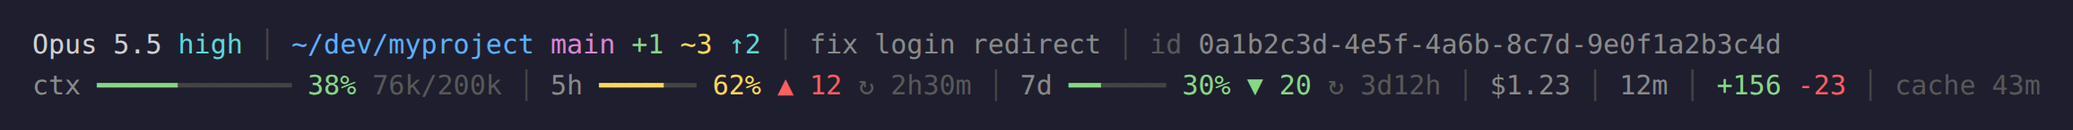
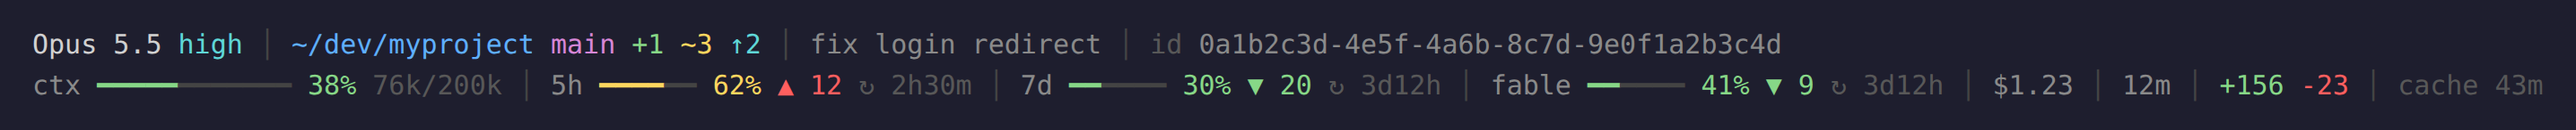
Per-model weekly limit meter (Fable), read from Claude Code's cached usage data
The status line input has only the 5-hour and 7-day windows. The per-model
weekly meter from the usage screen is in ~/.claude.json under
cachedUsageUtilization, so it is read from there: shown with its age once it
is over an hour old, dropped once its week has reset, and silent if the file
is missing or shaped differently. 26 tests.

Claude-Session: https://claude.ai/code/session_017nu2Js586jN43bPDDCy3Br

Changed region(s): [[0.0, 0.5753, 0.9965, 0.7397], [0.0, 0.2466, 0.872, 0.4658]]

diff --git a/tests/test_statusline.py b/tests/test_statusline.py
@@ -35,8 +35,8 @@ def plain(lines):
     return [sl.ANSI_RE.sub("", l) for l in lines]
 
 
-def build(data, cols=200):
-    return plain(sl.build(data, cols, now=NOW, git=lambda cwd: GIT))
+def build(data, cols=200, scoped=lambda now: []):
+    return plain(sl.build(data, cols, now=NOW, git=lambda cwd: GIT, scoped=scoped))
 
 
 def test_full_render_wide():
@@ -112,6 +112,7 @@ def test_formatters():
 def test_cli_end_to_end(tmp_path):
     script = os.path.join(SRC, "statusline.py")
     env = dict(os.environ, COLUMNS="60", HOME=str(tmp_path))  # its cache goes to a throwaway home
+    env.pop("CLAUDE_CONFIG_DIR", None)
     out = subprocess.run([sys.executable, script], input=json.dumps(FULL), capture_output=True, text=True, env=env)
     lines = out.stdout.splitlines()
     assert out.returncode == 0 and len(lines) == 2
@@ -132,3 +133,61 @@ def test_context_usage_is_not_saved_without_a_reading_or_with_an_unsafe_id(tmp_p
     sl.record_context({"session_id": SID}, folder=str(tmp_path))
     sl.record_context({"session_id": "../escape", "context_window": {"used_percentage": 5}}, folder=str(tmp_path))
     assert list(tmp_path.iterdir()) == []
+
+
+# --- per-model weekly limits, read from Claude Code's cached usage data ---------
+
+def usage_cache(tmp_path, limits, fetched=NOW - 60):
+    path = tmp_path / ".claude.json"
+    path.write_text(json.dumps({"cachedUsageUtilization": {"fetchedAtMs": fetched * 1000, "utilization": {"limits": limits}}}))
+    return str(path)
+
+
+def iso(epoch):
+    import datetime
+    return datetime.datetime.fromtimestamp(epoch, datetime.timezone.utc).isoformat()
+
+
+FABLE = {"kind": "weekly_scoped", "group": "weekly", "percent": 48, "resets_at": iso(NOW + 302400),
+         "scope": {"model": {"id": None, "display_name": "Fable"}, "surface": None}}
+WEEKLY_ALL = {"kind": "weekly_all", "group": "weekly", "percent": 49, "resets_at": iso(NOW + 302400), "scope": None}
+
+
+def test_scoped_limits_picks_only_the_per_model_weekly_meter(tmp_path):
+    found = sl.scoped_limits(NOW, usage_cache(tmp_path, [WEEKLY_ALL, FABLE, {"kind": "session", "percent": 6, "scope": None}]))
+    assert found == [{"label": "fable", "used_percentage": 48, "resets_at": NOW + 302400, "age": 60}]
+
+
+def test_a_reading_from_a_window_that_has_reset_is_dropped(tmp_path):
+    last_week = dict(FABLE, resets_at=iso(NOW - 10))
+    assert sl.scoped_limits(NOW, usage_cache(tmp_path, [last_week])) == []
+
+
+@pytest.mark.parametrize("content", ["", "not json", "{}", '{"cachedUsageUtilization": null}',
+                                     '{"cachedUsageUtilization": {"fetchedAtMs": 1, "utilization": {"limits": [{"kind": "weekly_scoped", "percent": 5, "resets_at": 7, "scope": {"model": {"display_name": "X"}}}]}}}'])
+def test_a_missing_or_unexpected_cache_shows_nothing(tmp_path, content):
+    path = tmp_path / ".claude.json"
+    path.write_text(content)
+    assert sl.scoped_limits(NOW, str(path)) == []
+    assert sl.scoped_limits(NOW, str(tmp_path / "absent.json")) == []
+
+
+def test_fable_meter_renders_between_the_weekly_limit_and_the_cost(tmp_path):
+    fresh = lambda now: sl.scoped_limits(now, usage_cache(tmp_path, [WEEKLY_ALL, FABLE]))
+    bottom = build(FULL, scoped=fresh)[1]
+    # half the week gone, 48% used: 2 under pace
+    assert "│ 7d ━━━━━━ 8% ▼ 42 ↻ 3d12h │ fable ━━━━━━ 48% ▼ 2 ↻ 3d12h │ $1.23 │" in bottom
+
+
+def test_an_old_reading_says_how_old_it_is(tmp_path):
+    stale = lambda now: sl.scoped_limits(now, usage_cache(tmp_path, [FABLE], fetched=NOW - 3 * 3600))
+    assert "fable ━━━━━━ 48% ▼ 2 ↻ 3d12h (3h00m old) │" in build(FULL, scoped=stale)[1]
+
+
+def test_fable_meter_needs_rate_limit_data_and_never_breaks_the_two_rows(tmp_path):
+    fresh = lambda now: sl.scoped_limits(now, usage_cache(tmp_path, [FABLE]))
+    assert "fable" not in build({}, scoped=fresh)[1]
+    for cols in (200, 120, 90, 70, 50):
+        lines = build(FULL, cols, scoped=fresh)
+        assert len(lines) == 2 and all(len(l) <= max(20, cols - 4) for l in lines), (cols, lines)
+        assert "ctx" in lines[1] and "38%" in lines[1]

diff --git a/src/statusline.py b/src/statusline.py
@@ -8,6 +8,7 @@ Reads the session JSON on stdin (https://code.claude.com/docs/en/statusline).
 Segments shrink, then drop, lowest priority first, to fit $COLUMNS.
 Stdlib only, so it starts fast and has nothing to install.
 """
+import datetime
 import hashlib
 import json
 import os
@@ -22,6 +23,8 @@ GIT_TTL = 5  # seconds; git status can be slow (network or Windows-mounted drive
 CACHE_DIR = os.path.expanduser("~/.cache/claude-statusline")
 SESSION_DIR = os.path.join(CACHE_DIR, "sessions")
 WINDOWS = {"five_hour": 5 * 3600, "seven_day": 7 * 86400}
+USAGE_CACHE = os.path.join(os.environ.get("CLAUDE_CONFIG_DIR") or os.path.expanduser("~"), ".claude.json")
+USAGE_OLD = 3600  # past this, a cached reading is shown with its age
 
 ANSI_RE = re.compile(r"\x1b\[[0-9;]*m|\x1b\]8;;.*?\x07")
 
@@ -169,6 +172,31 @@ def limit_variants(label, win, length, now):
     return [head + bar(pct, 6, color) + " " + num + pace + reset, head + num + pace + reset, head + num]
 
 
+def scoped_limits(now, path=None):
+    """Per-model weekly limits (the "Fable" meter on the usage screen), from Claude Code's own cache.
+
+    The status line input carries only the 5-hour and 7-day windows. Claude Code keeps the fuller
+    answer it last fetched for its usage screen in its config file; this reads that. The file is
+    not a documented interface, so anything unexpected means "show nothing". A reading whose
+    window has already reset is dropped: it describes last week.
+    """
+    try:
+        with open(path or USAGE_CACHE) as f:
+            cached = json.load(f)["cachedUsageUtilization"]
+        fetched = cached["fetchedAtMs"] / 1000
+        found = []
+        for item in cached["utilization"]["limits"]:
+            model = ((item.get("scope") or {}).get("model") or {}).get("display_name")
+            if item.get("kind") != "weekly_scoped" or not model or item.get("percent") is None:
+                continue
+            resets = datetime.datetime.fromisoformat(item["resets_at"]).timestamp()
+            if resets > now:
+                found.append({"label": model.lower(), "used_percentage": item["percent"], "resets_at": resets, "age": max(0, now - fetched)})
+        return found
+    except (OSError, ValueError, KeyError, TypeError, AttributeError):
+        return []
+
+
 def fit(segments, limit):
     """Join segments; while too wide, step the most droppable one to its next variant."""
     state = [0] * len(segments)
@@ -184,7 +212,7 @@ def fit(segments, limit):
     return render()
 
 
-def build(d, cols, now=None, git=git_info):
+def build(d, cols, now=None, git=git_info, scoped=scoped_limits):
     now = now or time.time()
     limit = max(20, cols - 4)
     top, bottom = [], []  # (priority, [variants]); higher priority number drops first
@@ -246,10 +274,16 @@ def build(d, cols, now=None, git=git_info):
         v = limit_variants(label, rl.get(key) or {}, WINDOWS[key], now)
         if v:
             bottom.append((prio, v))
+    for win in scoped(now) if rl else []:
+        v = limit_variants(win["label"], win, WINDOWS["seven_day"], now)
+        if v and win["age"] > USAGE_OLD:  # say how old the number is; the live windows above are never old
+            v = [x + " " + c(DIM, f"({span(win['age'])} old)") for x in v[:2]] + v[2:]
+        if v:
+            bottom.append((3, v))
     spend = rl.get("spend_limit") or {}
     if spend.get("used_percentage") is not None:
         sp = spend["used_percentage"]
-        bottom.append((3, [c(GREY, "spend ") + c(level(sp, 60, 85), f"{round(sp)}%"), ""]))
+        bottom.append((4, [c(GREY, "spend ") + c(level(sp, 60, 85), f"{round(sp)}%"), ""]))
 
     cost = d.get("cost") or {}
     if cost.get("total_cost_usd"):

diff --git a/scripts/demo.py b/scripts/demo.py
@@ -30,10 +30,11 @@ def sample(now):
     }
 
 
-def render(cols=130):
+def render(cols=160):
     now = time.time()
-    return sl.build(sample(now), cols, now=now, git=lambda cwd: GIT)
+    fable = [{"label": "fable", "used_percentage": 41, "resets_at": now + 302400, "age": 120}]
+    return sl.build(sample(now), cols, now=now, git=lambda cwd: GIT, scoped=lambda now: fable)
 
 
 if __name__ == "__main__":
-    print("\n".join(render(int(sys.argv[1]) if len(sys.argv) > 1 else 130)))
+    print("\n".join(render(int(sys.argv[1]) if len(sys.argv) > 1 else 160)))

diff --git a/README.md b/README.md
@@ -8,7 +8,7 @@ A two-row status line for [Claude Code](https://code.claude.com/docs/en/statusli
 
 **Top row:** model and effort level, directory with git branch and change counts, worktree, PR number, session name, session id.
 
-**Bottom row:** context window used, the 5-hour and 7-day rate limits, session cost, elapsed time, lines added and removed, and how long the prompt cache stays warm.
+**Bottom row:** context window used, the 5-hour and 7-day rate limits, any per-model weekly limit (such as Fable), session cost, elapsed time, lines added and removed, and how long the prompt cache stays warm.
 
 ## The pace marker
 
@@ -61,6 +61,18 @@ It always prints exactly two rows. When a row is too wide, segments shrink and t
 - Git status is cached for 5 seconds per directory in `~/.cache/claude-statusline`, so slow repos do not stall the prompt.
 - If a triangle or the reset icon overlaps the text after it, your terminal font is drawing that glyph wider than one cell. The script already puts a space after each for this reason.
 - If the script hits an error it prints the error on the status line. It does not go blank.
+
+## Per-model weekly limits
+
+The usage screen in Claude Code can show a separate weekly meter for one model. The status line input does not include it: it carries only the 5-hour and 7-day windows.
+
+Claude Code keeps the last answer it fetched for that screen in its config file (`~/.claude.json`, under `cachedUsageUtilization`). This script reads the per-model entries from there and shows each as its own meter, with the same pace marker.
+
+Things to know:
+
+- The number is only as fresh as that cache. Past an hour old, the meter says so: `fable ━━━━━━ 48% ▼ 2 ↻ 3d12h (3h00m old)`.
+- A reading whose week has already reset is not shown.
+- That file is not a documented interface. If its shape changes, the meter disappears and nothing else breaks.
 
 ## Context usage for hooks
 
